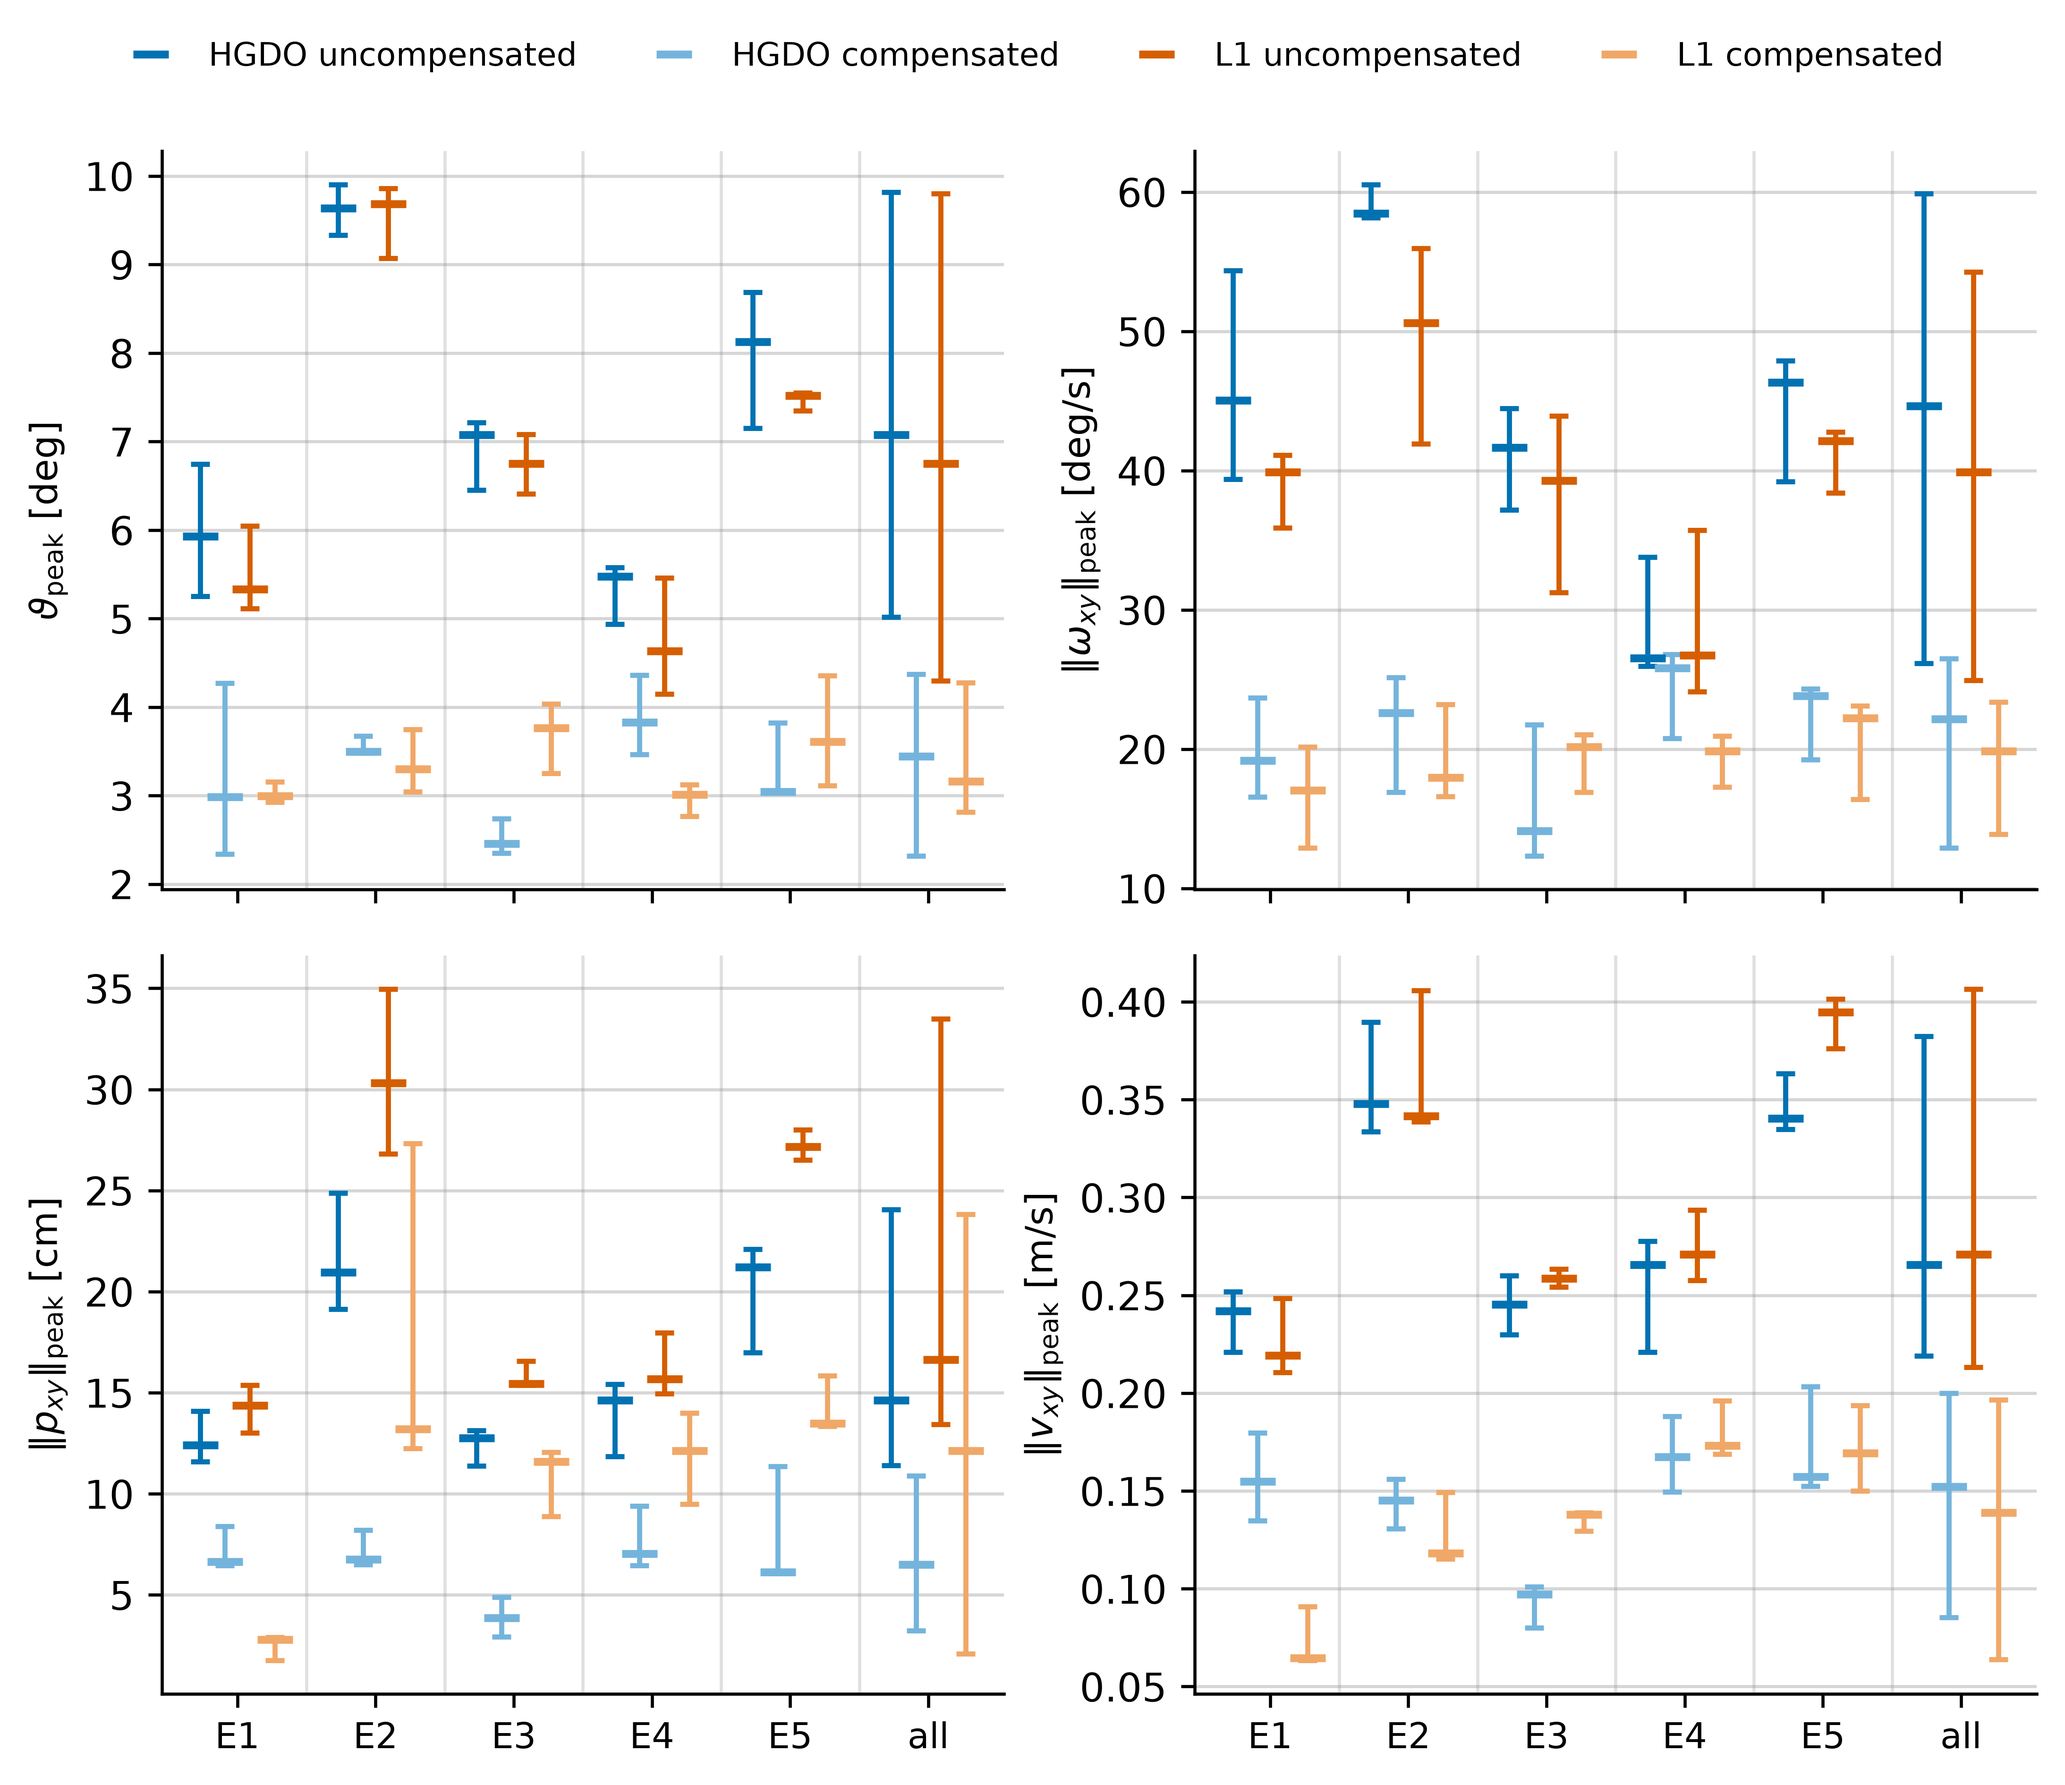
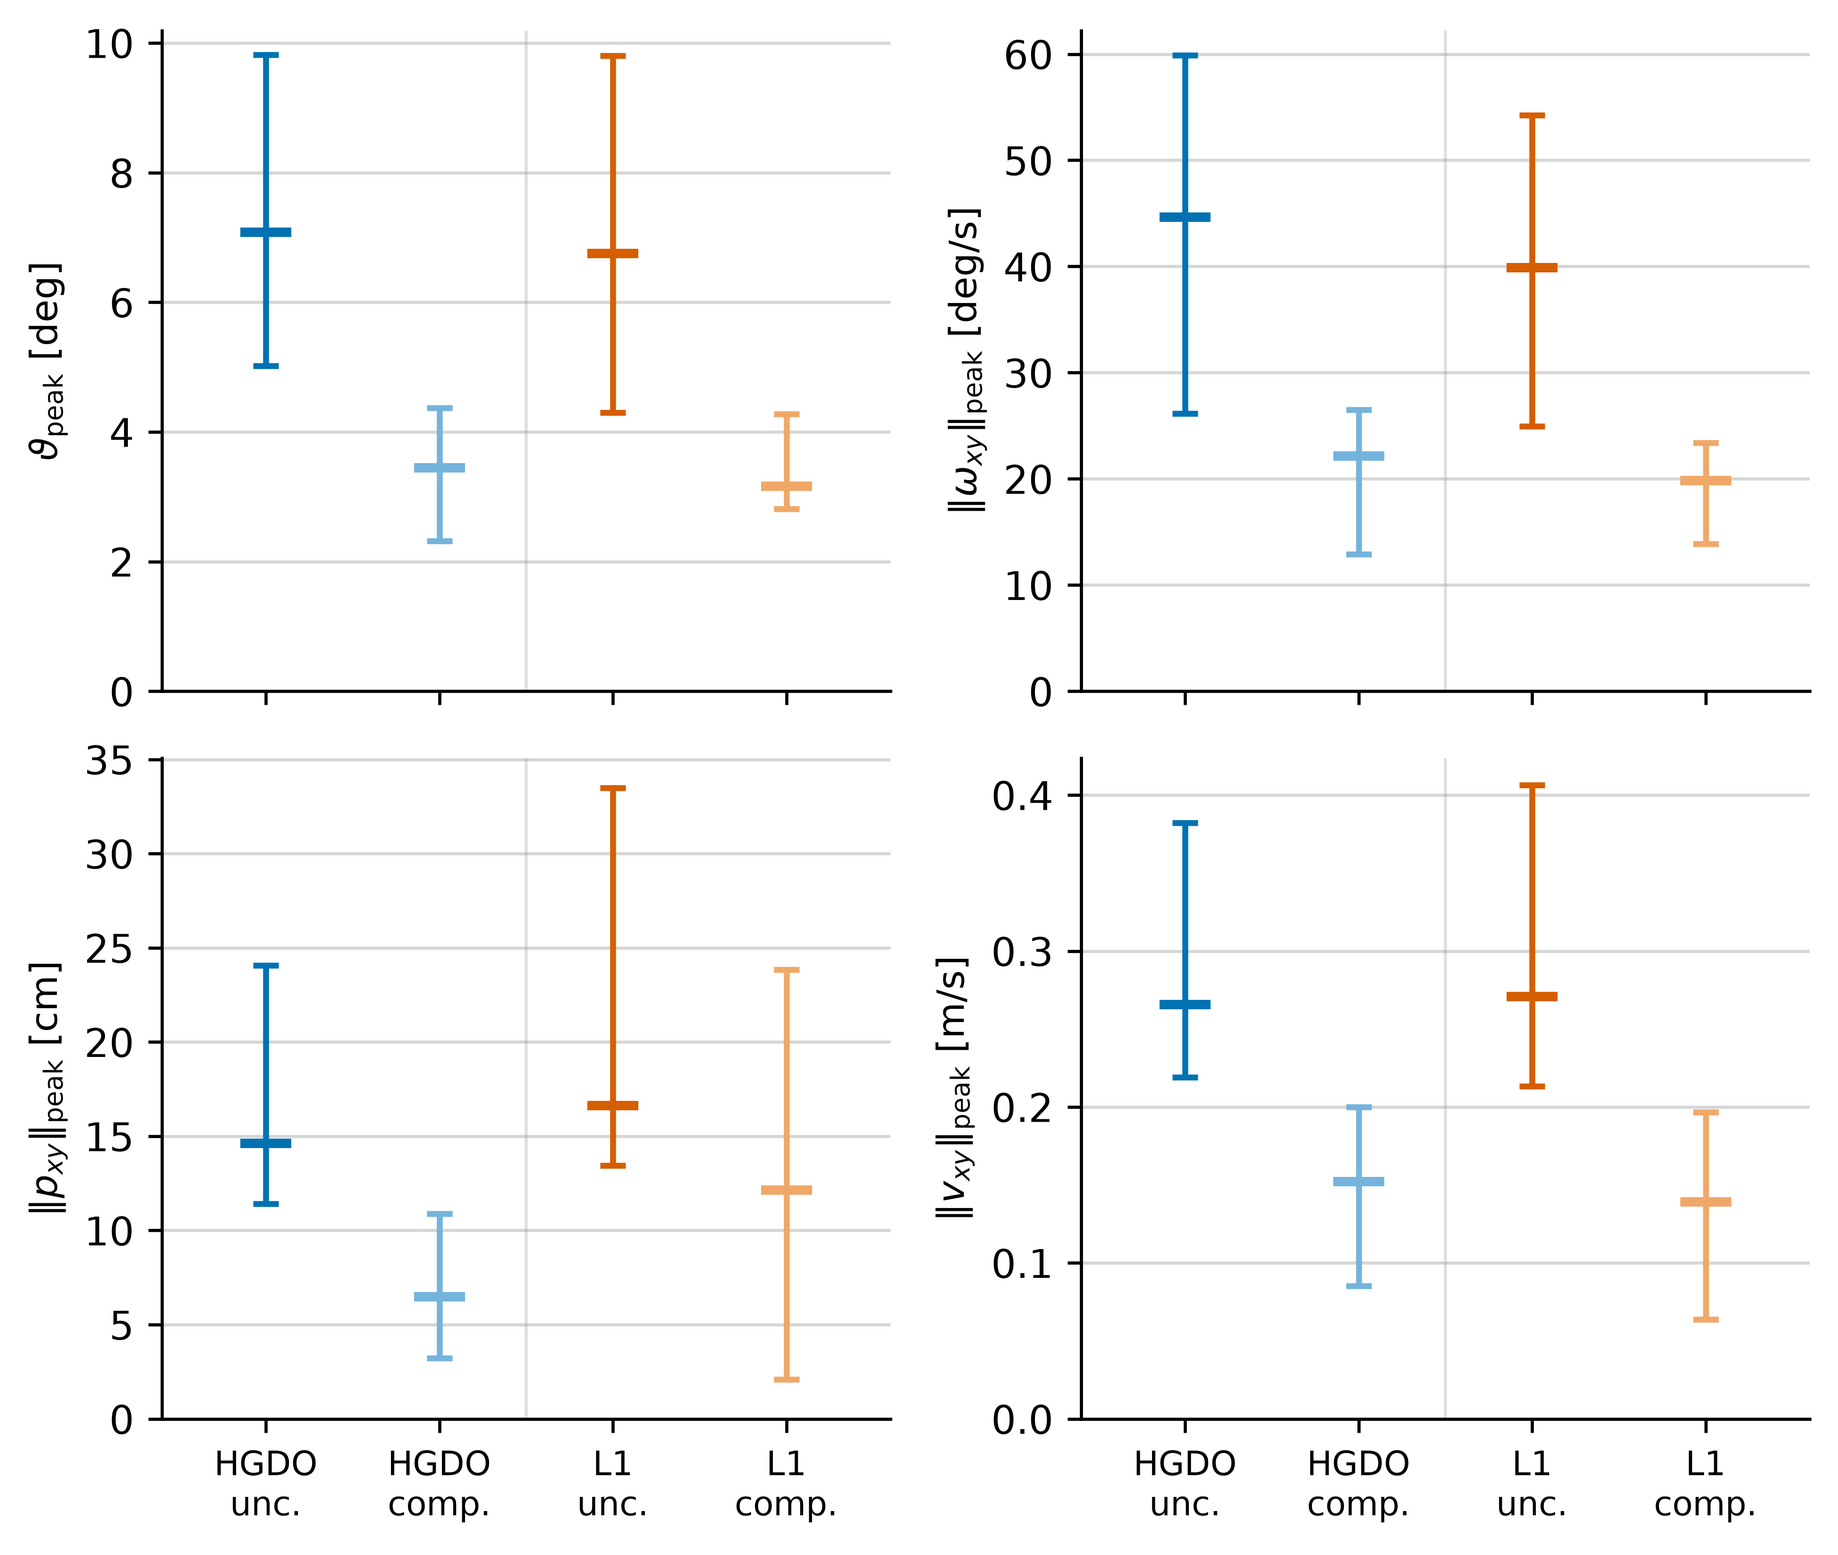
Pool the free-flight peaks figure to campaign level
One crossbar per observer/variant (median + empirical 95% over the
fifteen flights), no legend -- the tick labels carry it.

Claude-Session: https://claude.ai/code/session_01BM6bcsm1ZtLtgegEeuFDVS

diff --git a/analysis/freeflight_hw_summary.py b/analysis/freeflight_hw_summary.py
@@ -181,40 +181,34 @@ def main():
             'speed': (1.0, r'$\Vert v_{xy}\Vert_{\mathrm{peak}}$'
                            r' [m/s]', '{:.2f}')}
 
-    slots = cases + ['all']
-    fig, axes = plt.subplots(2, 2, figsize=(7.4, 6.2), sharex=True)
-    dodge = dict(hgdo={'wo_ff': -0.27, 'ff_pivot_free': -0.09},
-                 l1={'wo_ff': +0.09, 'ff_pivot_free': +0.27})
+    # one slot per observer/variant, the whole campaign pooled: the
+    # per-case detail lives in the table's aggregation and the runs
+    # CSV, the figure carries only the campaign-level contrast
+    series = [(ctrl, var) for ctrl in CTRLS for var in VARS]
+    ticklab = [f'{CLAB[c]}\n{"unc." if v == "wo_ff" else "comp."}'
+               for c, v in series]
+    fig, axes = plt.subplots(2, 2, figsize=(6.6, 5.6), sharex=True)
     for ax, key in zip(axes.flat, KEYS):
         sc, ylab, _ = UNIT[key]
-        for ctrl in CTRLS:
-            for var in VARS:
-                col = COL[ctrl] if var == 'wo_ff' else LIGHT[ctrl]
-                lab = (f'{CLAB[ctrl]} {VLAB[var]}'
-                       if ax is axes.flat[0] else None)
-                for i, slot in enumerate(slots):
-                    v = sc * pool(slot, ctrl, var, key)
-                    x = i + dodge[ctrl][var]
-                    lo, med, hi = np.percentile(v, [2.5, 50, 97.5])
-                    ax.errorbar(x, med, yerr=[[med - lo], [hi - med]],
-                                fmt='none', ecolor=col, elinewidth=1.3,
-                                capsize=2.4, capthick=1.3, zorder=3)
-                    ax.plot(x, med, '_', ms=9, mew=2.0, color=col,
-                            zorder=4, label=lab if i == 0 else None)
-        for i in range(1, len(slots)):
-            ax.axvline(i - 0.5, color='0.88', lw=0.8, zorder=0)
-        ax.set_xticks(range(len(slots)))
-        ax.set_xticklabels([f'E{int(c)}' for c in cases] + ['all'],
-                           fontsize=9)
+        for i, (ctrl, var) in enumerate(series):
+            col = COL[ctrl] if var == 'wo_ff' else LIGHT[ctrl]
+            v = sc * pool('all', ctrl, var, key)
+            lo, med, hi = np.percentile(v, [2.5, 50, 97.5])
+            ax.errorbar(i, med, yerr=[[med - lo], [hi - med]],
+                        fmt='none', ecolor=col, elinewidth=1.5,
+                        capsize=3.2, capthick=1.5, zorder=3)
+            ax.plot(i, med, '_', ms=13, mew=2.4, color=col, zorder=4)
+        ax.axvline(1.5, color='0.88', lw=0.8, zorder=0)
+        ax.set_xticks(range(len(series)))
+        ax.set_xticklabels(ticklab, fontsize=8.5)
+        ax.set_xlim(-0.6, len(series) - 0.4)
+        ax.set_ylim(bottom=0)
         ax.set_ylabel(ylab, fontsize=9.5)
         ax.grid(axis='y', alpha=0.4, lw=0.8, color='0.6')
         ax.set_axisbelow(True)
         for sp in ('top', 'right'):
             ax.spines[sp].set_visible(False)
-    handles, labels = axes.flat[0].get_legend_handles_labels()
-    fig.legend(handles, labels, loc='upper center', ncol=4,
-               fontsize=8.2, frameon=False, bbox_to_anchor=(0.5, 1.02))
-    fig.tight_layout(rect=(0, 0, 1, 0.965))
+    fig.tight_layout()
     fig.savefig(a.outdir / 'exp_ff_peaks.png', dpi=a.dpi,
                 bbox_inches='tight')
     plt.close(fig)
